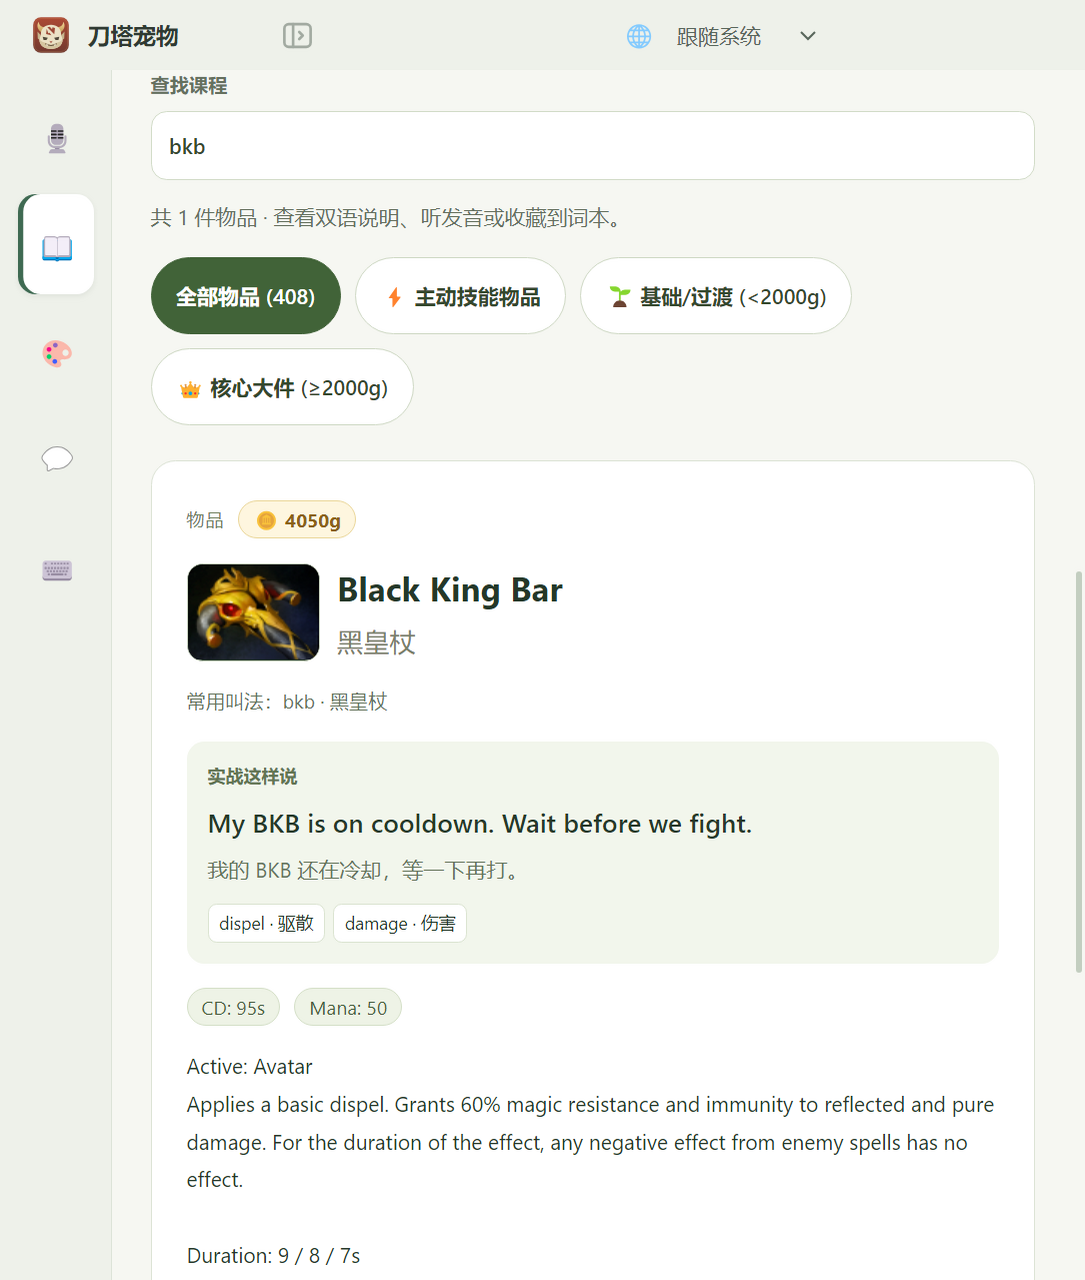
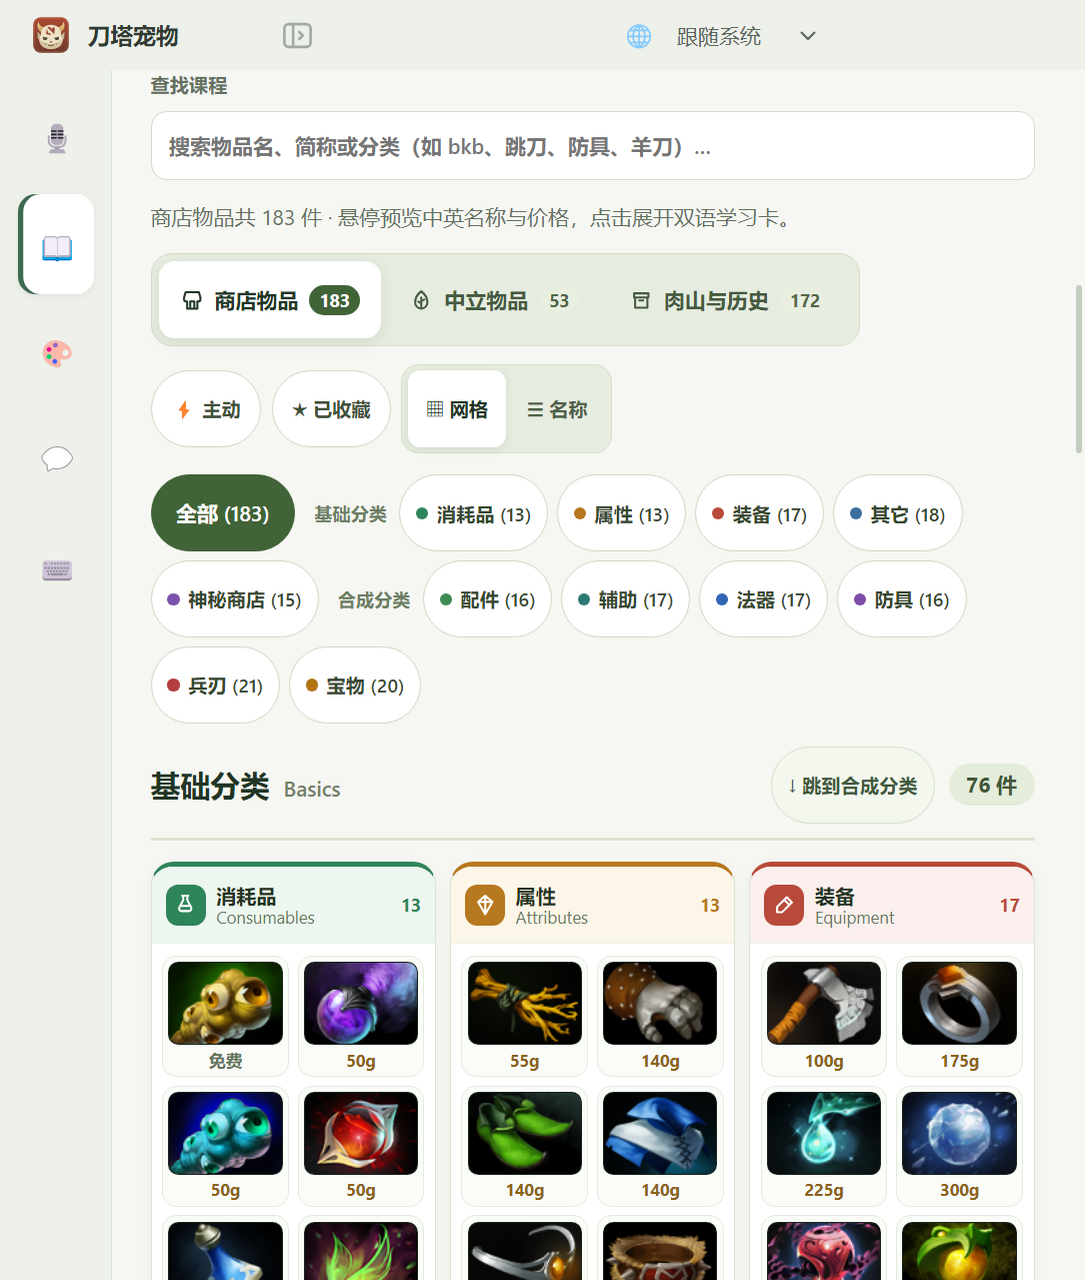
docs(learning): record shop item grid redesign and verified previews

diff --git a/docs/DOTAPAD_LEARNING_PROGRESS.md b/docs/DOTAPAD_LEARNING_PROGRESS.md
@@ -126,3 +126,14 @@ The original regeneration queue remains an audit candidate report. Source-review
 - Saved learning-card checkpoints separately from quiz attempts. Validated learning-step order, retries, foreign callers and failed writes; learning cards resume after reload without inflating accuracy.
 - Preserved review dates and bookmarks. The main action routes to the next ready unit rather than repeating a unit whose reviews are scheduled for later.
 - Validation: 292 automated tests, full Electron desktop checks and English/Russian/Ukrainian settings checks passed, including local images, learned-card recovery, quizzes, next-unit routing and narrow layout. Screenshots and the next task list are linked from the roadmap. Changes are separated into curriculum, saved learning checkpoints, interface and documentation commits.
+
+## 2026-11-19 — Official Dota 2 Shop Item Grid redesign
+
+- Inspected the official Dota 2 items website (`dota2.com.cn/items`) and synced its official shop category feed (`https://www.dota2.com.cn/itemscategory/json`) into an offline, hash-verified manifest (`src/learning/item-shop-categories.json`, refreshable via `npm run learning:sync-shop`).
+- Replaced the flat 408-card paginated Items list with a recognizable Dota 2 Shop Grid (`src/learning/itemShop.js`, `src/renderer/learning.html`, `src/renderer/learning.js`, `src/renderer/learning.css`):
+  - **Shop (商店物品, 183):** Two-shelf official layout with **Basics** (5 columns: Consumables, Attributes, Equipment, Misc, Secret Shop) and **Upgrades** (6 columns: Accessories, Support, Magical, Armor, Weapons, Artifacts), sorted by gold cost ascending, with category jump chips, one-click shelf jumps, and a `Grid / Names` view toggle.
+  - **Neutral (中立物品, 53):** Organized into **Tiers 1–5** with timing badges and compact bilingual tiles.
+  - **Special & Archive (肉山与历史, 172):** Separates Roshan & Map drops (Aegis, Cheese, Refresher Shard, Healing Lotus), upgrade variants, and neutral enchantments/historical entries so all 408 catalog items remain accessible without cluttering the live shop.
+  - **Instant search, hover previews & inline Study Inspector:** Ranked cross-catalog search supports English names, Chinese names, 65+ player aliases (`bkb`, `跳刀`, `冰甲`, `先锋盾`, `ac`, `mkb`, `羊刀`, etc.), and category names; hovering any shop icon shows a dark-forest preview card, and clicking (or narrowing to 1 search match) opens the inline Study Inspector with `← / → / Esc` navigation, match coaching sentences, AI audio playback, bookmarks, and focused practice.
+- Validation: **296 automated tests passed, 0 failed** (including `tests/test_learning_shop.js`), English UI smoke (`npm run smoke:en`) passed, and full Electron desktop smoke (`npm run smoke`) passed with all 408 offline PNGs decoded and zero horizontal overflow at wide (`1060×820`) and narrow (`620×730`) sizes.
+- Previews: [Shop Basics](images/learning-items.png), [Shop Upgrades & Hover Preview](images/learning-items-upgrades.png), [Neutral Tiers](images/learning-items-neutral.png), [Search & Study Inspector](images/learning-items-inspector.png), [Narrow Layout](images/learning-items-narrow.png).
